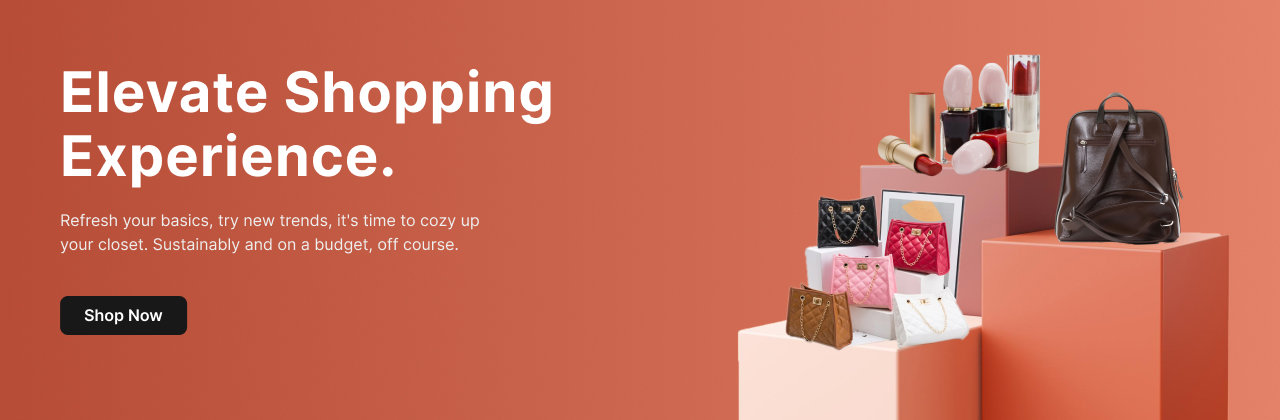
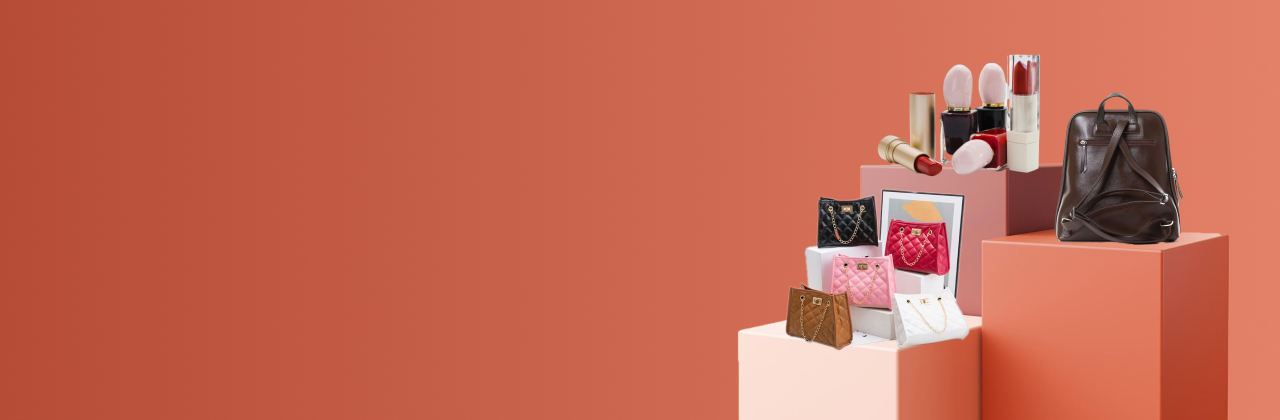
Homepage Animation Updated

diff --git a/index.html b/index.html
@@ -102,15 +102,31 @@
     <!-- ======================================
     Banner Section
     ====================================== -->
-    <section class="banner pt-4">
-        <div class="container">
-            <div class="banner-slider-container">
+    <section class="banner">
+        <div class="banner-slider-container">
 
-                <div class="single-banner pe-0 color-white" style="background: url('./assets/img/banner-1.jpg') center / cover no-repeat;"></div>
-                <div class="single-banner pe-0 color-white" style="background: url('./assets/img/banner-2.jpg') center / cover no-repeat;"></div>
-
+            <div class="single-banner pe-0 color-white d-flex align-items-center" style="background: url('./assets/img/banner-1.jpg') center / cover no-repeat;">
+                <div class="container">
+                    <div class="col-lg-5">
+                        <h2 class="font-56 fw-bold mb-3">Elevate Shopping Experience.</h2>
+                        <p class="pe-5 me-4 mb-5">Refresh your basics, try new trends, it's time to cozy up your closet. Sustainably and on a budget, off course.</p>
+                        <button class="button sm-button border-0 bg-black-main hover-color-white hover-bg-b color-white fw-semibold rounded-pill">Shop Now</button>
+                    </div>
+                </div>
             </div>
+            <div class="single-banner pe-0 color-white d-flex align-items-center" style="background: url('./assets/img/banner-2.jpg') center / cover no-repeat;">
+                <div class="container">
+                    <div class="col-lg-5">
+                        <h2 class="font-56 fw-bold mb-3">Elevate Shopping Experience.</h2>
+                        <p class="pe-5 me-4 mb-5">Refresh your basics, try new trends, it's time to cozy up your closet. Sustainably and on a budget, off course.</p>
+                        <button class="button sm-button border-0 bg-black-main hover-color-white hover-bg-b color-white fw-semibold rounded-pill">Shop Now</button>
+                    </div>
+                </div>
+            </div>
+
         </div>
+
+
     </section>
     
     <!-- ======================================
@@ -128,62 +144,62 @@
             <div class="category-slider">
 
                 <div class="single-category text-center">
-                    <img src="./assets/img/category-images/mens.jpg" alt="Category Image" class="w-100 rounded-4">
+                    <div class="single-category-image"><img src="./assets/img/category-images/mens.jpg" alt="Category Image" class="w-100 rounded-4"></div>
                     <p class="fw-semibold mt-2 mt-o">Men’s collection</p>
                 </div>
 
                 <div class="single-category text-center">
-                    <img src="./assets/img/category-images/woman.jpg" alt="Category Image" class="w-100 rounded-4">
+                    <div class="single-category-image"><img src="./assets/img/category-images/woman.jpg" alt="Category Image" class="w-100 rounded-4"></div>
                     <p class="fw-semibold mt-2 mt-o">Woman collection</p>
                 </div>
 
                 <div class="single-category text-center">
-                    <img src="./assets/img/category-images/bag.jpg" alt="Category Image" class="w-100 rounded-4">
+                    <div class="single-category-image"><img src="./assets/img/category-images/bag.jpg" alt="Category Image" class="w-100 rounded-4"></div>
                     <p class="fw-semibold mt-2 mt-o">Bags</p>
                 </div>
 
                 <div class="single-category text-center">
-                    <img src="./assets/img/category-images/cosmetics.jpg" alt="Category Image" class="w-100 rounded-4">
+                    <div class="single-category-image"><img src="./assets/img/category-images/cosmetics.jpg" alt="Category Image" class="w-100 rounded-4"></div>
                     <p class="fw-semibold mt-2 mt-o">Cosmetics</p>
                 </div>
 
                 <div class="single-category text-center">
-                    <img src="./assets/img/category-images/hand-bag.jpg" alt="Category Image" class="w-100 rounded-4">
+                    <div class="single-category-image"><img src="./assets/img/category-images/hand-bag.jpg" alt="Category Image" class="w-100 rounded-4"></div>
                     <p class="fw-semibold mt-2 mt-o">Hand bag</p>
                 </div>
 
                 <div class="single-category text-center">
-                    <img src="./assets/img/category-images/accessories.jpg" alt="Category Image" class="w-100 rounded-4">
+                    <div class="single-category-image"><img src="./assets/img/category-images/accessories.jpg" alt="Category Image" class="w-100 rounded-4"></div>
                     <p class="fw-semibold mt-2 mt-o">Accessories</p>
                 </div>
 
                 <div class="single-category text-center">
-                    <img src="./assets/img/category-images/mens.jpg" alt="Category Image" class="w-100 rounded-4">
+                    <div class="single-category-image"><img src="./assets/img/category-images/mens.jpg" alt="Category Image" class="w-100 rounded-4"></div>
                     <p class="fw-semibold mt-2 mt-o">Men’s collection</p>
                 </div>
 
                 <div class="single-category text-center">
-                    <img src="./assets/img/category-images/woman.jpg" alt="Category Image" class="w-100 rounded-4">
+                    <div class="single-category-image"><img src="./assets/img/category-images/woman.jpg" alt="Category Image" class="w-100 rounded-4"></div>
                     <p class="fw-semibold mt-2 mt-o">Woman collection</p>
                 </div>
 
                 <div class="single-category text-center">
-                    <img src="./assets/img/category-images/bag.jpg" alt="Category Image" class="w-100 rounded-4">
+                    <div class="single-category-image"><img src="./assets/img/category-images/bag.jpg" alt="Category Image" class="w-100 rounded-4"></div>
                     <p class="fw-semibold mt-2 mt-o">Bags</p>
                 </div>
 
                 <div class="single-category text-center">
-                    <img src="./assets/img/category-images/cosmetics.jpg" alt="Category Image" class="w-100 rounded-4">
+                    <div class="single-category-image"><img src="./assets/img/category-images/cosmetics.jpg" alt="Category Image" class="w-100 rounded-4"></div>
                     <p class="fw-semibold mt-2 mt-o">Cosmetics</p>
                 </div>
 
                 <div class="single-category text-center">
-                    <img src="./assets/img/category-images/hand-bag.jpg" alt="Category Image" class="w-100 rounded-4">
+                    <div class="single-category-image"><img src="./assets/img/category-images/hand-bag.jpg" alt="Category Image" class="w-100 rounded-4"></div>
                     <p class="fw-semibold mt-2 mt-o">Hand bag</p>
                 </div>
 
                 <div class="single-category text-center">
-                    <img src="./assets/img/category-images/accessories.jpg" alt="Category Image" class="w-100 rounded-4">
+                    <div class="single-category-image"><img src="./assets/img/category-images/accessories.jpg" alt="Category Image" class="w-100 rounded-4"></div>
                     <p class="fw-semibold mt-2 mt-o">Accessories</p>
                 </div>
 
@@ -618,7 +634,9 @@
                             <h1 class="fw-bold fs-1 d-flex"><svg  class="currency-icon-sm me-1"><use xlink:href="./assets/icons/icons.svg#bdt-icon-green-light"></use></svg> 789</h1>
                             <p class="mb-0 fs-5">Explore Our all types Dresses for Men</p>
                         </div>
-                        <img src="./assets/img/discount-1.jpg" alt="Discount Image" class="w-100">
+                        <div class="animation-img">
+                            <img src="./assets/img/discount-1.jpg" alt="Discount Image" class="w-100">
+                        </div>
                     </div>
                 </div>
 
@@ -629,7 +647,9 @@
                             <h1 class="fw-bold fs-1 d-flex"><svg class="currency-icon-sm"><use xlink:href="./assets/icons/icons.svg#bdt-icon-yellow"></use></svg> 800</h1>
                             <p class="mb-0 fs-5">Explore Our all types Dresses for Men</p>
                         </div>
-                        <img src="./assets/img/discount-2.jpg" alt="Discount Image" class="w-100">
+                        <div class="animation-img">
+                            <img src="./assets/img/discount-2.jpg" alt="Discount Image" class="w-100">
+                        </div>
                     </div>
                 </div>
 
@@ -640,7 +660,9 @@
                             <h1 class="fw-bold fs-1 d-flex"><svg  class="currency-icon-sm"><use xlink:href="./assets/icons/icons.svg#bdt-icon-yellow-2"></use></svg> 680</h1>
                             <p class="mb-0 fs-5">Explore Our all types Dresses for Men</p>
                         </div>
-                        <img src="./assets/img/discount-3.jpg" alt="Discount Image" class="w-100">
+                        <div class="animation-img">
+                            <img src="./assets/img/discount-3.jpg" alt="Discount Image" class="w-100">
+                        </div>
                     </div>
                 </div>
 
@@ -651,7 +673,9 @@
                             <h1 class="fw-bold fs-1 d-flex"><svg class="currency-icon-sm"><use xlink:href="./assets/icons/icons.svg#bdt-icon-red"></use></svg> 450</h1>
                             <p class="mb-0 fs-5">Explore Our all types Dresses for Men</p>
                         </div>
-                        <img src="./assets/img/discount-4.jpg" alt="Discount Image" class="w-100">
+                        <div class="animation-img">
+                            <img src="./assets/img/discount-4.jpg" alt="Discount Image" class="w-100">
+                        </div>
                     </div>
                 </div>
 
@@ -1510,7 +1534,9 @@
             <div class="trending-now-slider">
 
                 <div class="tending-box rounded-4 overflow-hidden" style="background: #E6F1F8;">
-                    <img src="./assets/img/trending-1.jpg" class="w-100" alt="Trending Image">
+                    <div class="animation-img">
+                        <img src="./assets/img/trending-1.jpg" class="w-100" alt="Trending Image">
+                    </div>
                     <div class="tending-box-content p-4 d-flex flex-column row-gap-2 align-items-start">
                         <h4 class="fs-4 fw-bold color-black mb-0">Woman Fashion world</h4>
                         <span class="color-para-light">Today 20% off</span>
@@ -1518,7 +1544,9 @@
                     </div>
                 </div>
                 <div class="tending-box rounded-4 overflow-hidden" style="background: #FFEEEB;">
-                    <img src="./assets/img/trending-2.jpg" class="w-100" alt="Trending Image">
+                    <div class="animation-img">
+                        <img src="./assets/img/trending-2.jpg" class="w-100" alt="Trending Image">
+                    </div>
                     <div class="tending-box-content p-4 d-flex flex-column row-gap-2 align-items-start">
                         <h4 class="fs-4 fw-bold color-black mb-0">Fashion world</h4>
                         <span class="color-para-light">Today 20% off</span>
@@ -1532,7 +1560,7 @@
     </section>
 
     <!-- ======================================
-     Best Deals Products
+     Best Selling Store
     ====================================== -->
     <section class="category-section pt-80">
         <div class="container">
@@ -1544,7 +1572,9 @@
 
                 <div class="col-lg-3">
                     <div class="store-box card-animation rounded-4">
-                        <img src="./assets/img/store-1.jpg" alt="Store Image" class="cover-image main-image w-100 rounded-4">
+                        <div class="animation-img">
+                            <img src="./assets/img/store-1.jpg" alt="Store Image" class="cover-image main-image w-100 rounded-4">
+                        </div>
                         <div class="store-box-info p-20 position-relative">
                             <div class="store-logo rounded-circle overflow-hidden p-2 bg-white-main position-absolute">
                                 <img src="./assets/img/brand-images/bevmo.jpg" alt="Store Image" class="w-100 cover-image">
@@ -1562,7 +1592,9 @@
                 
                 <div class="col-lg-3">
                     <div class="store-box card-animation rounded-4">
-                        <img src="./assets/img/store-2.jpg" alt="Store Image" class="cover-image main-image w-100 rounded-4">
+                        <div class="animation-img">
+                            <img src="./assets/img/store-2.jpg" alt="Store Image" class="cover-image main-image w-100 rounded-4">
+                        </div>
                         <div class="store-box-info p-20 position-relative">
                             <div class="store-logo rounded-circle overflow-hidden p-2 bg-white-main position-absolute">
                                 <img src="./assets/img/brand-images/adyan.jpg" alt="Store Image" class="w-100 cover-image">
@@ -1580,7 +1612,9 @@
                 
                 <div class="col-lg-3">
                     <div class="store-box card-animation rounded-4">
-                        <img src="./assets/img/store-3.jpg" alt="Store Image" class="cover-image main-image w-100 rounded-4">
+                        <div class="animation-img">
+                            <img src="./assets/img/store-3.jpg" alt="Store Image" class="cover-image main-image w-100 rounded-4">
+                        </div>
                         <div class="store-box-info p-20 position-relative">
                             <div class="store-logo rounded-circle overflow-hidden p-2 bg-white-main position-absolute">
                                 <img src="./assets/img/brand-images/start-tech.jpg" alt="Store Image" class="w-100 cover-image">
@@ -1598,7 +1632,9 @@
                 
                 <div class="col-lg-3">
                     <div class="store-box card-animation rounded-4">
-                        <img src="./assets/img/store-4.jpg" alt="Store Image" class="cover-image main-image w-100 rounded-4">
+                        <div class="animation-img">
+                            <img src="./assets/img/store-4.jpg" alt="Store Image" class="cover-image main-image w-100 rounded-4">
+                        </div>
                         <div class="store-box-info p-20 position-relative">
                             <div class="store-logo rounded-circle overflow-hidden p-2 bg-white-main position-absolute">
                                 <img src="./assets/img/brand-images/bevmo.jpg" alt="Store Image" class="w-100 cover-image">

diff --git a/assets/css/style.css b/assets/css/style.css
@@ -320,6 +320,9 @@ Banner
 .single-banner{
     height: 420px;
 }
+.banner .slick-track{
+    padding-top: 0px !important;
+}
 
 
 /* ======================================
@@ -332,6 +335,21 @@ Category Slider
     transform: scale(1.01) translateY(-5px);
     cursor: pointer;
     transition: .3s ease;
+}
+.single-category-image{
+    overflow: hidden;
+    /* border */
+}
+.single-category-image img{
+    transition: .3s ease;
+}
+.single-category:hover .single-category-image img{
+    scale: 1.2;
+}
+.single-category-image{
+    height: 200px;
+    width: 100%;
+    border-radius: 16px;
 }
 .single-category:hover p{
     color: var(--color-b);
@@ -353,6 +371,16 @@ Featured Image Box
 /* ======================================
 Single Prodct Box
 ====================================== */
+.animation-img{
+    overflow: hidden;
+    border-radius: 16px;
+}
+.animation-img:hover img,.offer-box:hover img,.tending-box:hover img,.store-box:hover .animation-img img{
+    scale: 1.2;
+}
+.animation-img img{
+    transition: .3s ease;
+}
 .featured-product-slider .slick-slide , .woman-fashion-slider .slick-slide,.weekly-populer-slider .slick-slide{
     margin: 0px 10px;
 }
@@ -369,6 +397,7 @@ Single Prodct Box
     top: 10px;
     background: #F5F5F5;
     right: 10px;
+    z-index: 1;
 }
 .favourite i.fa-heart{
     margin-top: 1.9px;
@@ -397,12 +426,17 @@ Single Prodct Box
     right: 0px;
     
 }
+.single-product-box:hover img{
+    scale: 1.2;
+}
 .single-product-image{
     width: 100%;
     height: 240px;
+    overflow: hidden;
 }
 .single-product-box img{
     height: 240px;
+    transition: .3s ease;
     object-fit: cover;
 
 }
